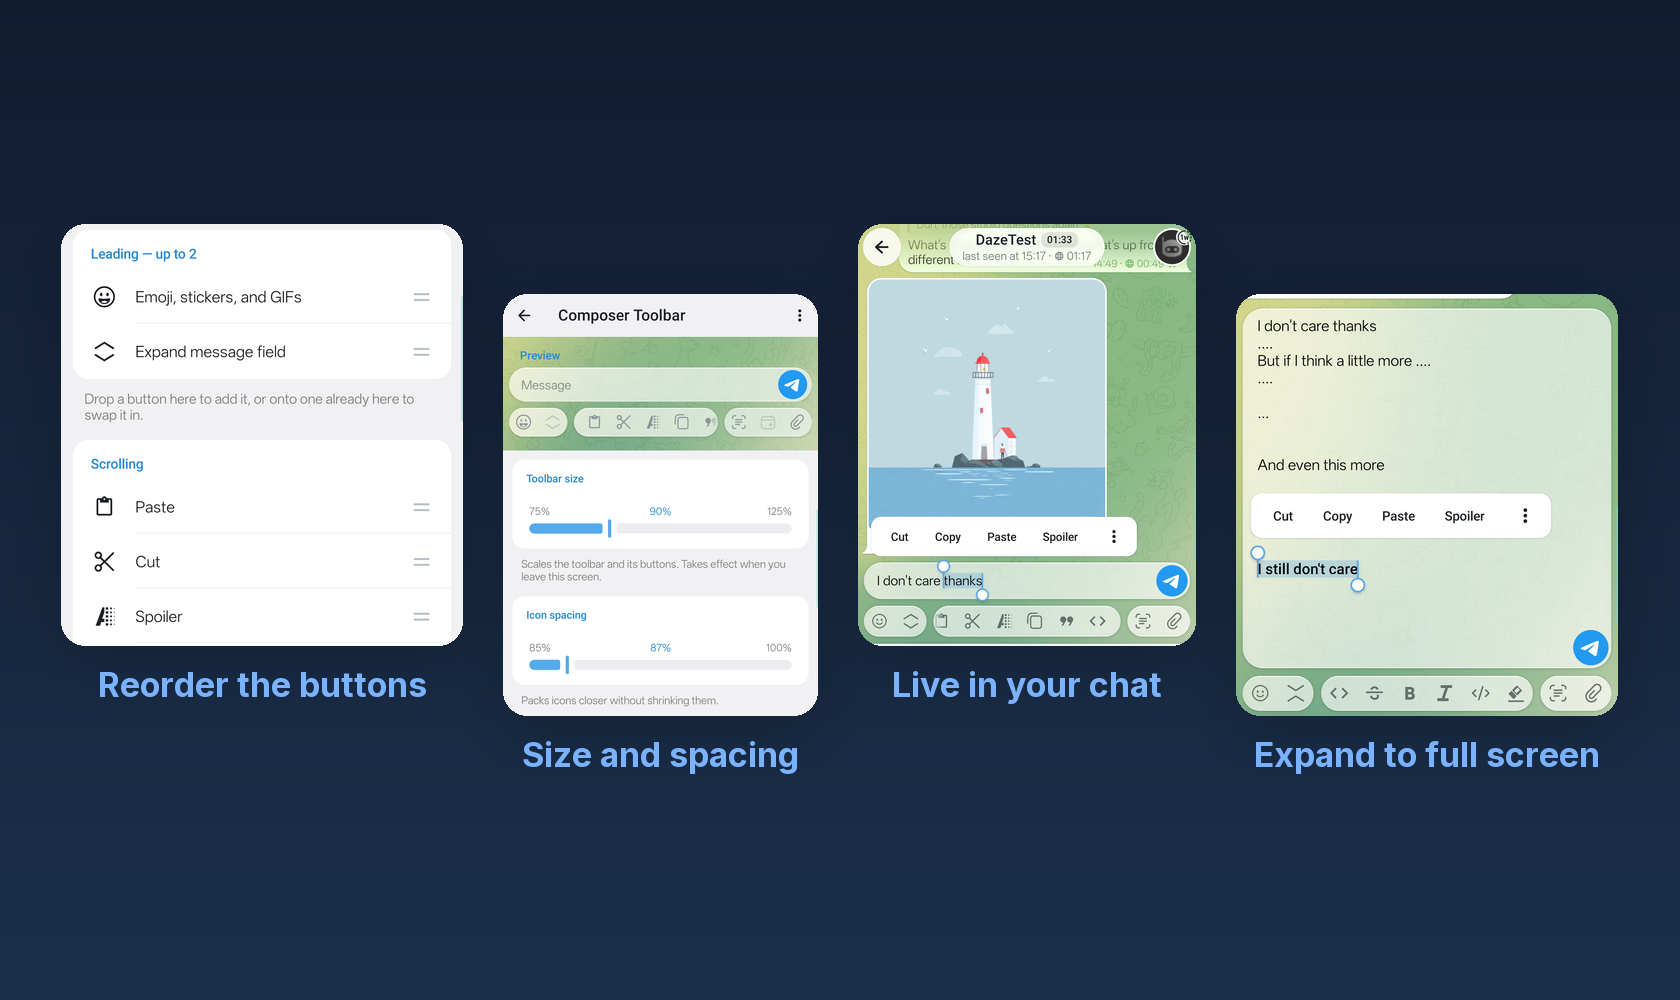
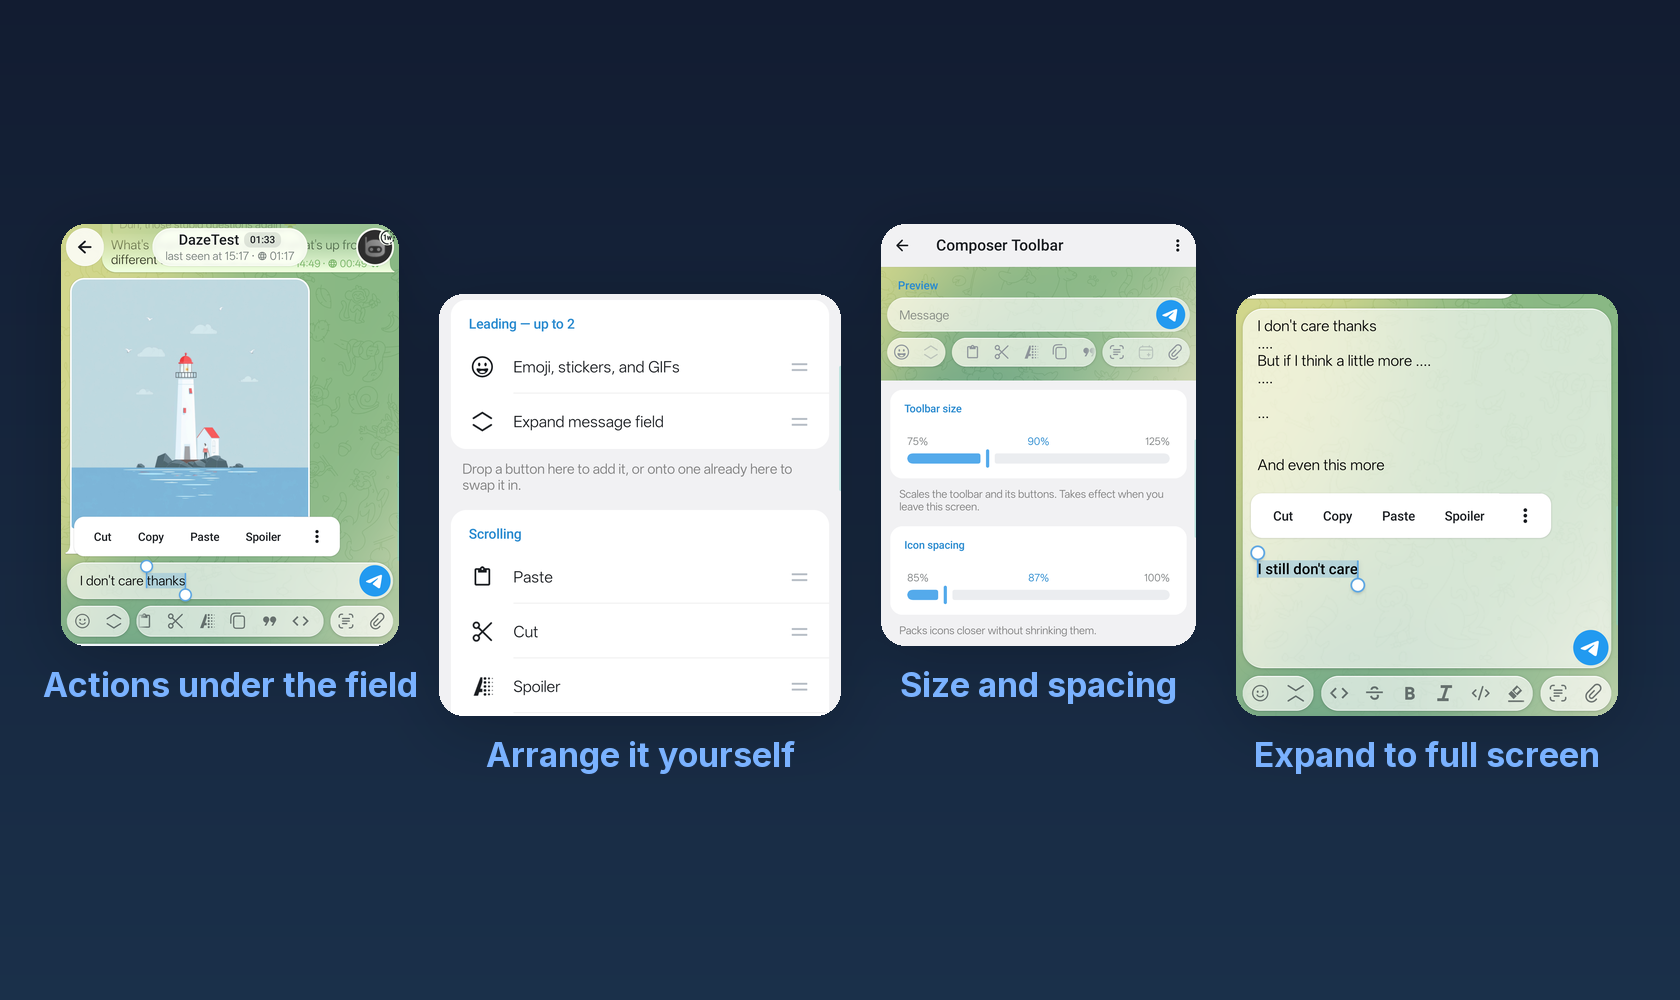
lead composer wall with the toolbar itself, not the editor #docs
The composer wall opened on the layout editor and only reached the
live glass toolbar in panel 3, and the README lead sentence framed
the feature as reordering something Telegram already ships. Neither
is true: the action row under the message field (Quote, Spoiler,
Select All, Clear, plus Cut/Copy/Paste through the layout editor,
with send/mic moved inside the field itself) does not exist upstream
at all. Being able to rearrange it is the follow-up, not the lead.

Move the live-toolbar panel to the front and recaption it "Actions
under the field"; the other three panels keep their relative order
with the drag-list caption changed to "Arrange it yourself" to read
naturally in the new position. No crop rectangles changed -- all four
were tuned over several rounds and are still correct.

Rewrite the README lead sentence and this wall's alt text to match
the new panel order and to lead with what's new rather than what's
configurable. Rebump the README pin in protected-paths.tsv.

Changed region(s): [[0.031, 0.217, 0.7119, 0.775]]

diff --git a/README.md b/README.md
@@ -14,10 +14,10 @@ This README covers the highlights. The full list, with what each one does, is in
 <img src="docs/images/hero.png" alt="Four views of Dazegram's time zone tools: the hour-comparison grid with the message-format token chips, the range picker with both accounts' hours, the schedule-message sheet split between your time and theirs, and the chat header clock pill next to messages showing dual local times.">
 </p>
 
-**Composer:** Reorder most of the composer's row: emoji, attachments, formatting, schedule, into the layout you actually reach for.
+**Composer:** A row of actions Telegram doesn't have — cut, copy, paste, formatting, quote, schedule, attach — in blurred glass under the message field, with send and the mic moved inside the field itself. You decide which buttons are there, in what order, and how big.
 
 <p align="center">
-<img src="docs/images/composer.png" alt="Four views of Dazegram's composer toolbar: the drag list for reordering leading and scrolling buttons, the toolbar size and icon spacing sliders, the toolbar live in a chat with text selected, and the message field expanded to full screen.">
+<img src="docs/images/composer.png" alt="Four views of Dazegram's composer toolbar: the glass action row live in a chat with text selected, the drag list for reordering leading and scrolling buttons, the toolbar size and icon spacing sliders, and the message field expanded to full screen.">
 </p>
 
 **Privacy profiles:** Save named auto-lock timeouts and switch between them with a long-press, instead of digging back into settings every time you need a longer or shorter leash.
